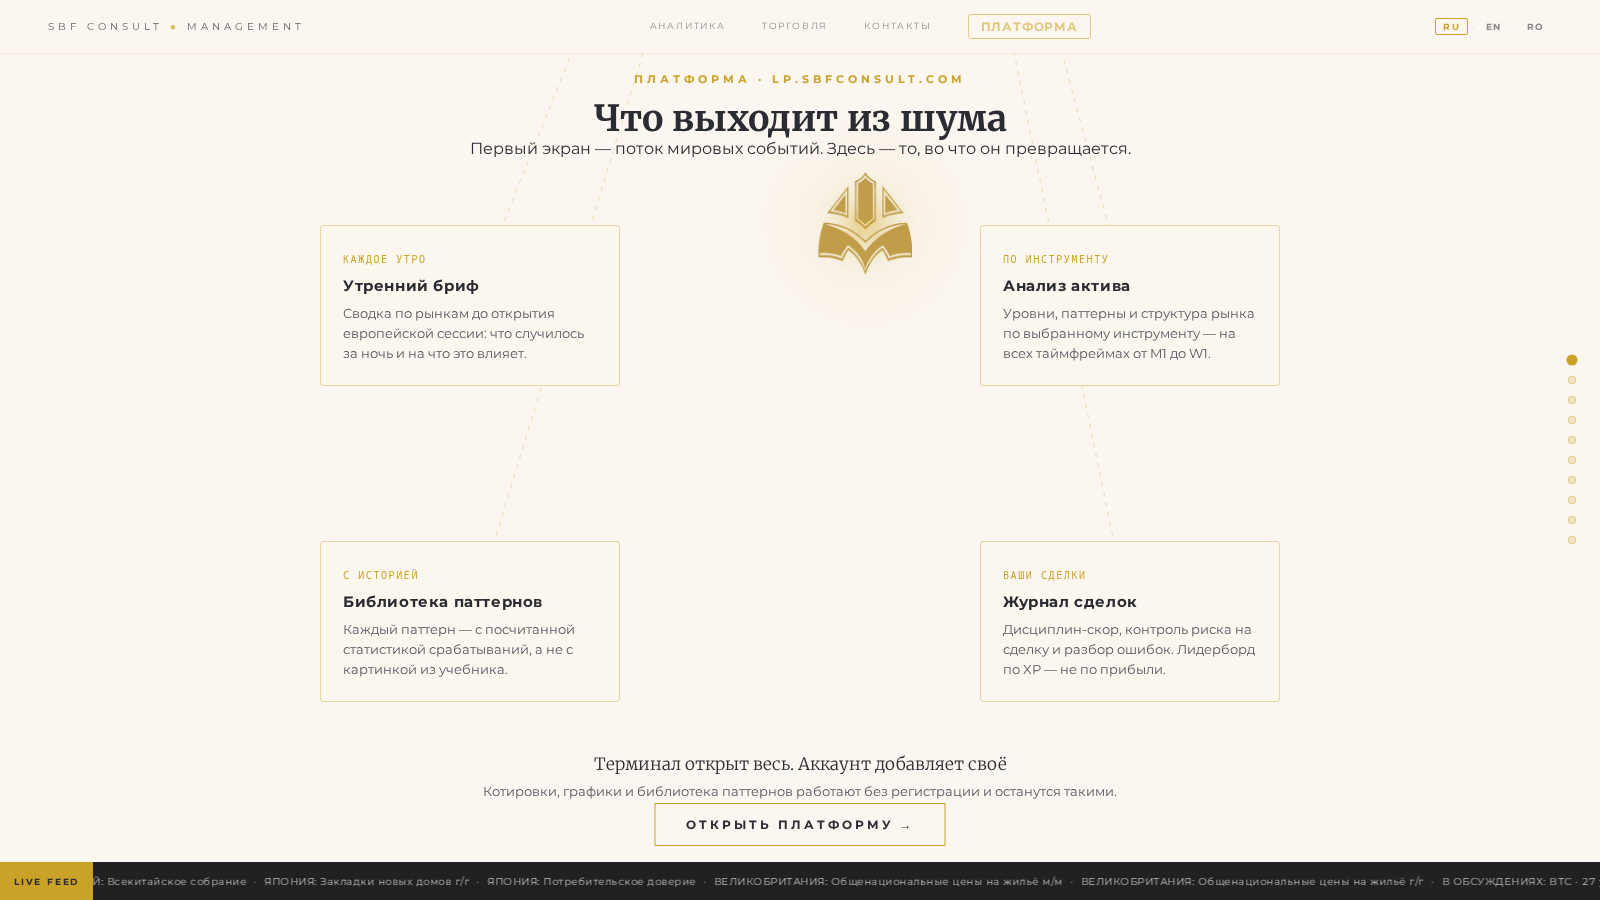
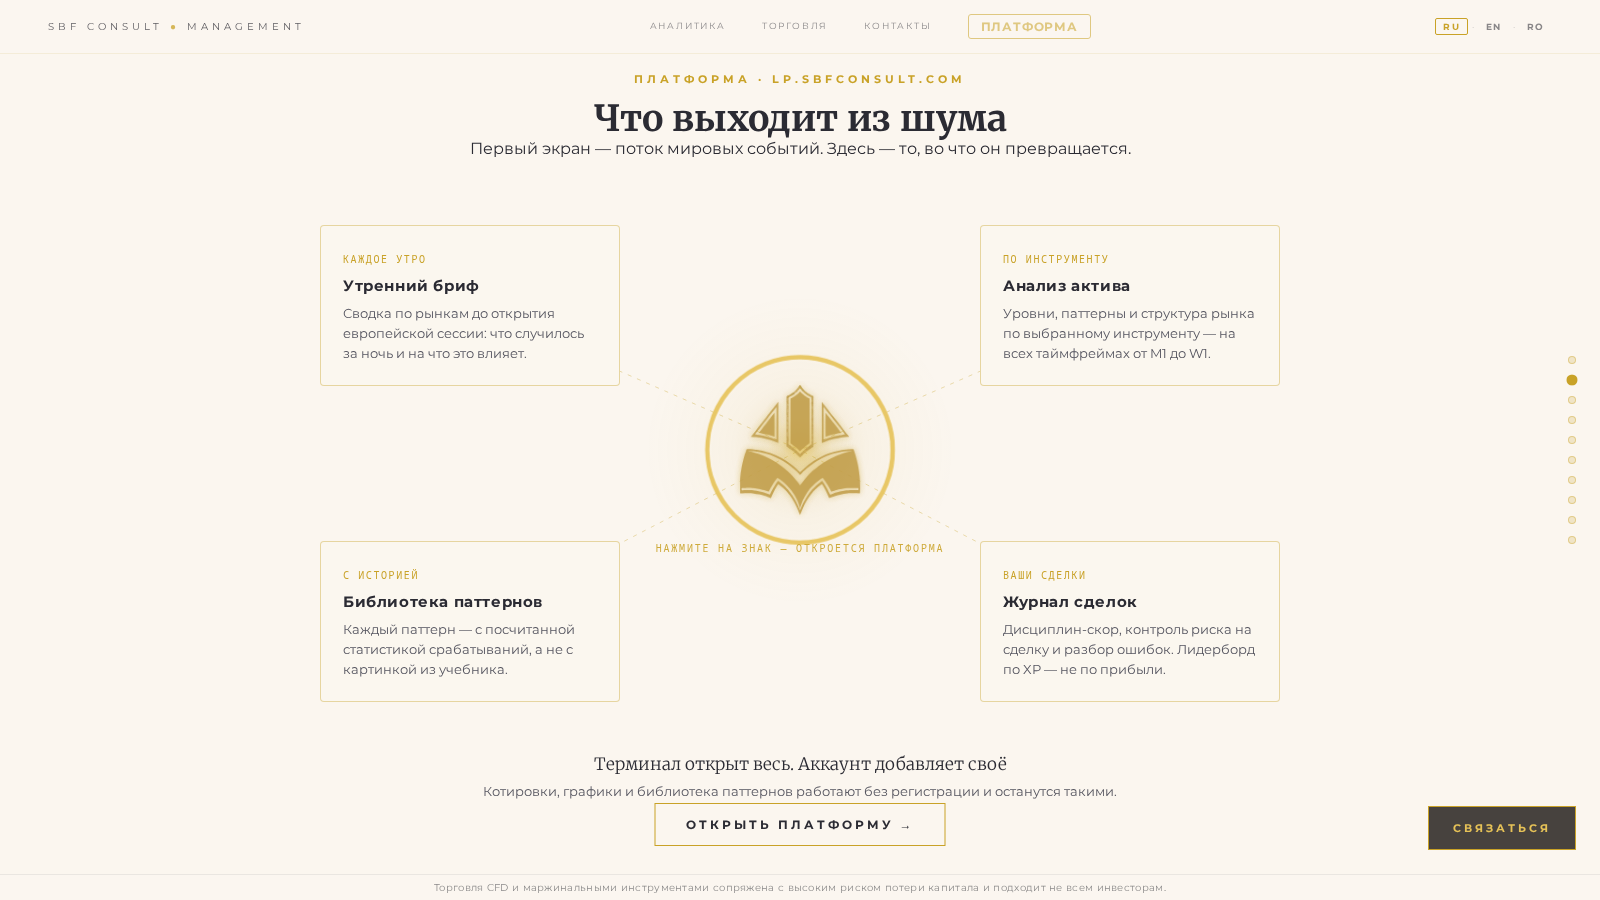
Обычный скролл вместо поэкранного
Хореография сайта завязана на snap-enter/snap-leave: роли логотипа, кольцо
занятости, нити второго экрана, перелёт знака в солнце, класс body.act-*-active.
Поэтому переход сделан подменой источника событий, а не переписыванием актов:
js/scroll-director.js следит за главной секцией при нативном скролле и шлёт
те же события в том же порядке. snap-navigator оставлен только для [data-fade].

Секции переведены на min-height вместо height 100vh с overflow hidden —
на узких экранах так уже было. Верхний отступ считается от --nav-h.

Восстановление позиции переехало из inline-скрипта в scroll-director:
раньше оно считалось как idx * innerHeight, что при секциях разной высоты
даёт промах.

Прогон tools/shots.py по iphone-se, iphone, laptop-low, desktop чистый.

diff --git a/js/scroll-director.js b/js/scroll-director.js
@@ -1,0 +1,119 @@
+/**
+ * scroll-director.js — обычный скролл вместо поэкранного.
+ *
+ * Хореография сайта завязана на события `snap-enter` / `snap-leave`, которые
+ * рассылал snap-navigator: роли логотипа, кольцо занятости, нити на втором
+ * экране, перелёт знака в солнце на финале, показ бегущей строки, класс
+ * `body.act-<id>-active`, от которого зависит десяток правил в CSS.
+ *
+ * Поэтому переход сделан не переписыванием актов, а подменой источника
+ * событий: страница скроллится нативно, а этот модуль следит, какая секция
+ * сейчас главная, и рассылает ровно те же события в том же порядке
+ * (сначала leave прошлой, потом enter новой). Для всех остальных файлов
+ * ничего не изменилось.
+ *
+ * Что осталось у snap-navigator: показ блоков `[data-fade]` через
+ * IntersectionObserver. Перехват колеса и клавиш он больше не ставит.
+ */
+(function () {
+  'use strict';
+
+  var STORAGE_KEY = 'sbf_snap_idx';
+  var stops = Array.prototype.slice.call(document.querySelectorAll('.snap-stop'));
+  if (!stops.length) return;
+
+  var current = -1;
+  var ticking = false;
+
+  /* Главная секция — та, чей центр ближе к центру экрана. Порог по площади
+     не годится: секции разной высоты, и низкая никогда бы не выигрывала. */
+  function activeIndex() {
+    var mid = window.innerHeight / 2;
+    var best = 0, bestDist = Infinity;
+    for (var i = 0; i < stops.length; i++) {
+      var r = stops[i].getBoundingClientRect();
+      if (r.bottom < 0 || r.top > window.innerHeight) continue;
+      var d = Math.abs((r.top + r.bottom) / 2 - mid);
+      if (d < bestDist) { bestDist = d; best = i; }
+    }
+    return best;
+  }
+
+  function setActive(i) {
+    if (i === current) return;
+    if (current >= 0 && stops[current]) {
+      stops[current].classList.remove('snap-active-stop');
+      stops[current].dispatchEvent(new CustomEvent('snap-leave'));
+    }
+    current = i;
+    var el = stops[i];
+    el.classList.add('snap-active-stop');
+    el.dispatchEvent(new CustomEvent('snap-enter'));
+
+    document.body.className = document.body.className
+      .replace(/\bact-\S+-active\b/g, '').trim();
+    document.body.classList.add('act-' + el.id + '-active');
+
+    try { sessionStorage.setItem(STORAGE_KEY, i); } catch (e) {}
+
+    document.querySelectorAll('.snap-dot').forEach(function (dot, k) {
+      dot.classList.toggle('active', k === i);
+    });
+
+    /* Плавающая кнопка: как и раньше, прячем на первом и последнем экране */
+    var sticky = document.getElementById('sticky-cta');
+    if (sticky) sticky.classList.toggle('visible', i !== 0 && i !== stops.length - 1);
+  }
+
+  function onScroll() {
+    if (ticking) return;
+    ticking = true;
+    requestAnimationFrame(function () {
+      ticking = false;
+      setActive(activeIndex());
+    });
+  }
+
+  window.addEventListener('scroll', onScroll, { passive: true });
+  window.addEventListener('resize', onScroll);
+
+  /* ── Переходы по ссылкам ──────────────────────────────────────────────
+     Раньше их обрабатывал snap-navigator своим express-переходом. */
+  function goTo(id) {
+    var el = document.getElementById(id);
+    if (!el) return false;
+    var nav = document.querySelector('.site-nav');
+    var pad = nav ? nav.getBoundingClientRect().height : 0;
+    window.scrollTo({ top: Math.max(0, el.offsetTop - pad + 1), behavior: 'smooth' });
+    return true;
+  }
+
+  document.querySelectorAll('.snap-dot').forEach(function (dot, k) {
+    dot.addEventListener('click', function () {
+      if (stops[k]) goTo(stops[k].id);
+    });
+  });
+
+  document.addEventListener('click', function (e) {
+    var el = e.target.closest('[data-snap-target], a[href^="#"]');
+    if (!el) return;
+    var id = el.getAttribute('data-snap-target') ||
+             (el.getAttribute('href') || '').slice(1);
+    if (!id || !document.getElementById(id)) return;
+    e.preventDefault();
+    goTo(id);
+  });
+
+  /* ── Восстановление позиции ───────────────────────────────────────────
+     Inline-скрипт в <head> считал позицию как idx * innerHeight. При
+     секциях разной высоты это промах, поэтому там восстановление отключено,
+     а здесь мы прыгаем к реальному offsetTop сохранённой секции. */
+  var saved = parseInt(sessionStorage.getItem(STORAGE_KEY) || '0', 10);
+  if (saved > 0 && saved < stops.length) {
+    window.scrollTo(0, stops[saved].offsetTop);
+  }
+  setActive(activeIndex());
+  document.documentElement.style.opacity = '1';
+
+  window.SBF_SCROLL = { goTo: goTo, activeIndex: function () { return current; } };
+})();

diff --git a/css/scroll-mode.css b/css/scroll-mode.css
@@ -1,0 +1,59 @@
+/* scroll-mode.css — обычный скролл вместо поэкранного.
+
+   Раньше каждая секция была ровно 100vh с `overflow: hidden`: содержимое
+   обязано было уместиться в высоту, которую заранее не знаешь. Прогон
+   tools/shots.py на 1440×680 показывал, чем это кончается — финальный экран
+   резался по нижнему краю без всякого признака, а надзаголовок PRO уезжал
+   под шапку.
+
+   Ниже — то же самое, что уже было для узких экранов (@media max-width:1023px
+   в styles.css), поднятое на все ширины. */
+
+.snap-stop {
+  height: auto;
+  min-height: 100vh;
+  overflow: visible;
+  /* Содержимое не должно нырять под фиксированную шапку.
+     --nav-h публикует js/nav-height.js. */
+  padding-top: calc(var(--nav-h, 69px) + 24px);
+  padding-bottom: 64px;
+}
+
+/* Первый экран и финал занимают ровно высоту окна и рисуют свой фон
+   от края до края — отступ шапки им не нужен. */
+#act-map, #act-contact {
+  height: 100vh;
+  min-height: 100vh;
+  padding-top: 0;
+  padding-bottom: 0;
+  overflow: hidden;
+}
+
+/* Полосу прокрутки прятал класс, который ставил snap-navigator.
+   В режиме обычного скролла она нужна: это единственный индикатор
+   длины страницы. */
+html.snap-active { overflow: auto; }
+
+/* Плавная прокрутка по якорям и точкам навигации, но не в ущерб тем,
+   кто выключил анимации в системе. */
+html { scroll-behavior: smooth; }
+@media (prefers-reduced-motion: reduce) {
+  html { scroll-behavior: auto; }
+}
+
+/* Точки справа остаются оглавлением: теперь они показывают, где ты
+   находишься в длинной странице, а не какой «слайд» открыт. */
+#snap-progress { position: fixed; }
+
+/* Финал держит 100vh ради глобуса во весь экран, но при низком окне
+   контакты в него не влезают и обрезаются. Ниже 760px по высоте
+   отпускаем секцию — пусть будет длиннее экрана, страница всё равно
+   прокручивается. Найдено прогоном tools/shots.py на 1440×680. */
+@media (max-height: 760px) {
+  #act-contact {
+    height: auto;
+    min-height: 100vh;
+    overflow: visible;
+    padding-bottom: 48px;
+  }
+}

diff --git a/js/snap-navigator.js b/js/snap-navigator.js
@@ -14,11 +14,19 @@ if ('scrollRestoration' in history) {
 const IS_MOBILE = window.matchMedia('(max-width: 1023px)').matches;
 window.IS_MOBILE = IS_MOBILE;
 
+/* Сайт переведён на обычный скролл: поэкранный режим больше не включается
+   ни на какой ширине. Перехват колеса, клавиш и рассылка snap-enter/leave
+   переехали в js/scroll-director.js — события те же, источник другой.
+   Здесь остаётся только показ блоков [data-fade].
+   Вернуть поэкранный режим: снять флаг и убрать scroll-director из index.html. */
+const SCROLL_MODE = true;
+const NO_SNAP = IS_MOBILE || SCROLL_MODE;
+
 const SNAP_STORAGE_KEY = 'sbf_snap_idx';
 
 class SnapNavigator {
   constructor() {
-    if (IS_MOBILE) {
+    if (NO_SNAP) {
       /* На мобиле — нативный скролл, ни одного перехватчика событий */
       document.body.style.overflow          = '';
       document.documentElement.style.overflow = '';
@@ -56,7 +64,7 @@ class SnapNavigator {
   }
 
   init() {
-    if (IS_MOBILE) return; // всё сделано в конструкторе
+    if (NO_SNAP) return; // всё сделано в конструкторе
 
     this.stops = Array.from(document.querySelectorAll('.snap-stop'));
     if (!this.stops.length) return;

diff --git a/index.html b/index.html
@@ -72,6 +72,7 @@
   <link rel="stylesheet" href="css/act-hub.css">
   <link rel="stylesheet" href="css/logo-aura.css">
   <link rel="stylesheet" href="css/mobile-fixes.css">
+  <link rel="stylesheet" href="css/scroll-mode.css">
 
   <!-- Favicon -->
   <link rel="icon" href="assets/logo/logo.svg" type="image/svg+xml">
@@ -81,8 +82,10 @@
   <script>
     (function () {
       if ('scrollRestoration' in history) history.scrollRestoration = 'manual';
-      var idx = parseInt(sessionStorage.getItem('sbf_snap_idx') || '0', 10);
-      if (idx > 0 && !window.matchMedia('(max-width: 767px)').matches) {
+      /* Восстановление позиции переехало в js/scroll-director.js: здесь
+         оно считалось как idx * innerHeight, а секции теперь разной высоты. */
+      var idx = 0;
+      if (idx > 0) {
         /* Скрываем страницу чтобы не было flash первого блока */
         document.documentElement.style.opacity = '0';
         document.documentElement.style.transition = 'none';
@@ -756,6 +759,7 @@
 
   <script src="vendor/three.min.js"></script>
   <script src="js/snap-navigator.js"></script>
+  <script defer src="js/scroll-director.js"></script>
   <script src="vendor/d3.min.js"></script>
   <script src="vendor/topojson-client.min.js"></script>
   <script defer src="js/hero-map.js"></script>
